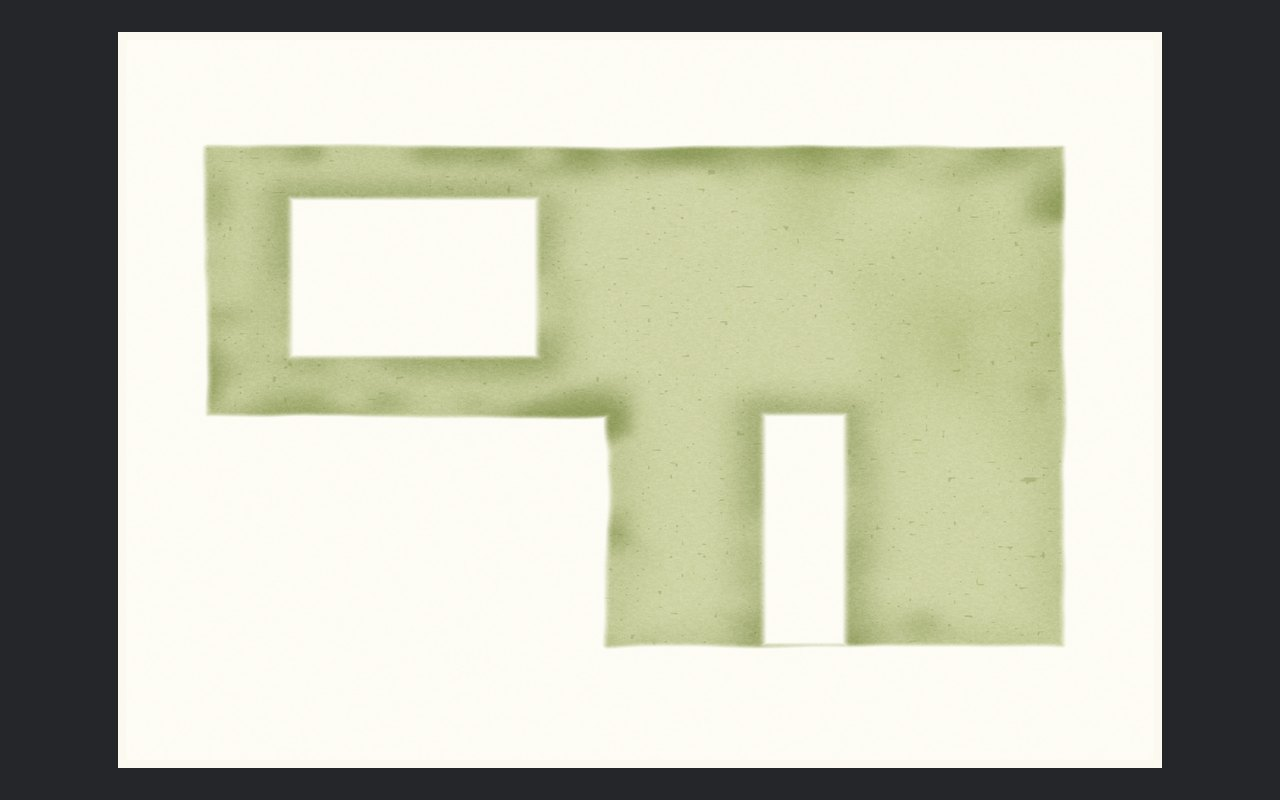
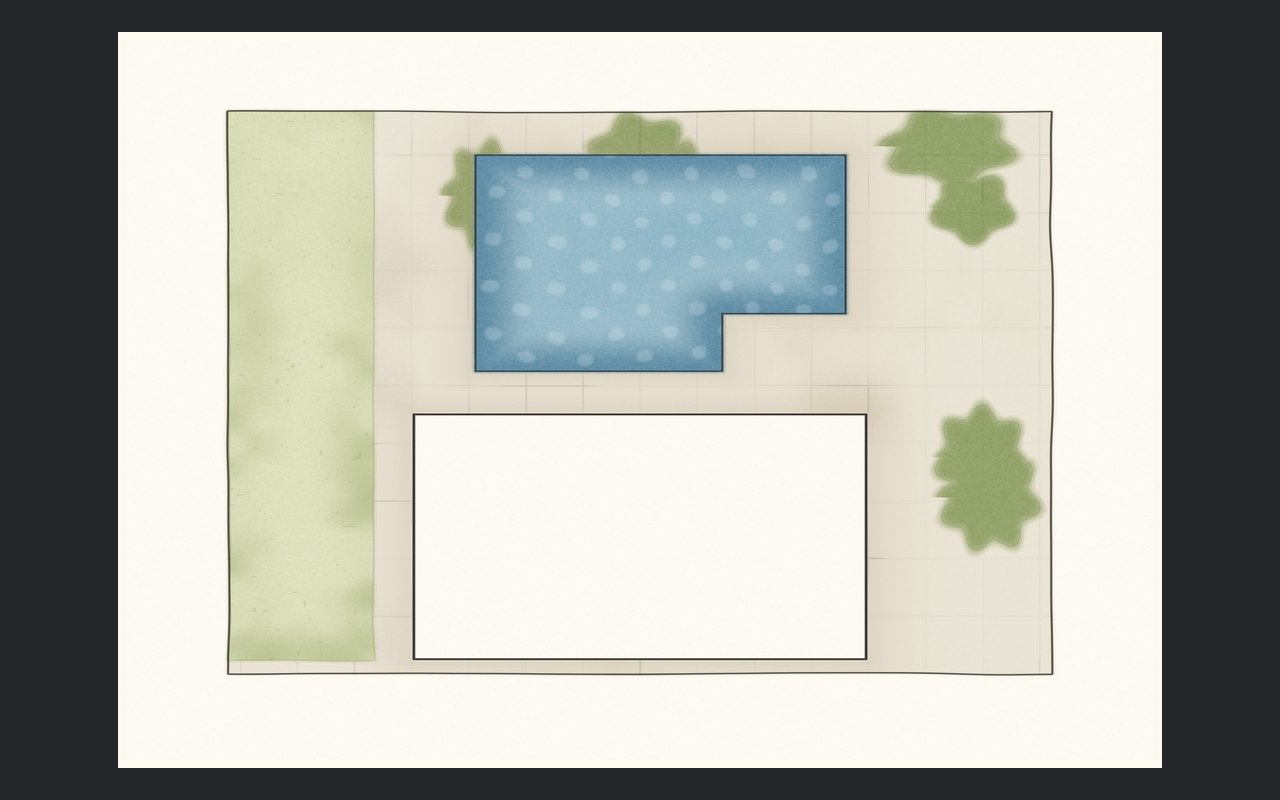
Bake a plan sheet: ink, pale lawn, pool, paving, planting.
The boards are not a lawn texture. Layer linework then washes so the
study reads as a backyard: residence as paper, left lawn strip, L-pool,
paving remainder, simple canopy masses. Still not on the tablet.

diff --git a/docs/northstar-study/README.md b/docs/northstar-study/README.md
@@ -1,33 +1,35 @@
-# Northstar grass study (view in the browser)
+# Northstar plan study (view in the browser)
 
-The previous Godot bake was the wrong material: dark overlapping masses.
-The boards are a **pale, even lawn wash**. This folder is the correction.
+The boards are a **plan**: ink, pale lawn, water, paving, planting.
+This bake is that structure. It is not 9/10 and not on the tablet.
 
 Open this file on GitHub — JPEGs render inline. Nothing to download.
-This is **not** the live Android canvas and not the full plan (planting, water,
-ink, paving). Grass only.
 
-## Versus the board
+## Plan
 
-![Board grass process](board-grass-row.jpg)
+![Labeled plan](plan-labeled.jpg)
 
-![Board lawn swatch vs this bake](vs-board-swatch.jpg)
-
-## Sheet
-
-![Labeled L-lawn](lawn-labeled.jpg)
-
-![Full sheet](lawn-full.jpg)
+![Full sheet](plan-full.jpg)
 
 ![16:10 viewport](s10fe-viewport.jpg)
 
+## Linework first (board step 1)
+
+![Linework](stage-linework.jpg)
+
 ## Close-ups
 
-![Wash interior](crop-closeup.jpg)
+![Pool](crop-pool.jpg)
 
-![House / lawn](crop-house.jpg)
+![Lawn strip](crop-lawn.jpg)
 
-![L corner](crop-corner.jpg)
+![Paving](crop-paving.jpg)
+
+## Grass vs the board
+
+![Board grass process](board-grass-row.jpg)
+
+![Board lawn swatch vs earlier grass-only bake](vs-board-swatch.jpg)
 
 ## Stages
 

diff --git a/docs/CURRENT_STATE.md b/docs/CURRENT_STATE.md
@@ -22,10 +22,10 @@ pass on those pixels (lift, new deposition, olive-black tail at luminance
 
 A Godot 4.7.2 baker now lives in `tools/godot-northstar`. Browser-viewable
 stills are in [docs/northstar-study](northstar-study/README.md) (no download).
-Guess for Tab S10 FE IPS LCD: more chroma/value split than the Java painter,
-2048 to match 2304×1440, GLES Compatibility later. This is **not** Godot
-inside the Android app and not a 9/10 claim. The live canvas still uses the
-Java painter, which bakes a rectangle and clips it. Water remains paused.
+The current bake is a plan sheet: ink, pale lawn strip, pool, paving,
+simple planting. That is the board's structure, not 9/10 planting/water
+detail, and not Godot inside the APK. Live canvas is still the Java
+painter. Water in production remains paused.
 
 Water and decking remain paused. Godot as a Northstar presentation plugin
 is still the likely path to the remaining quality points; it is not wired
